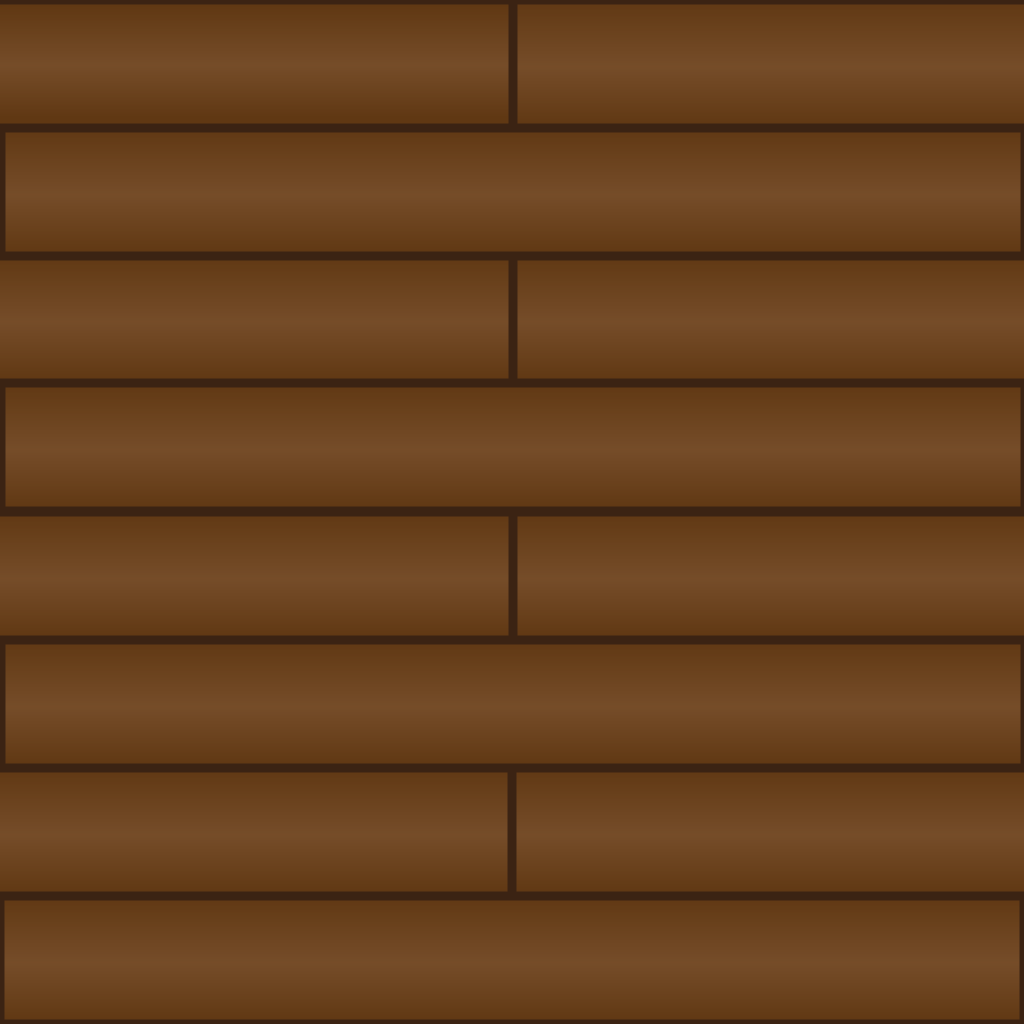
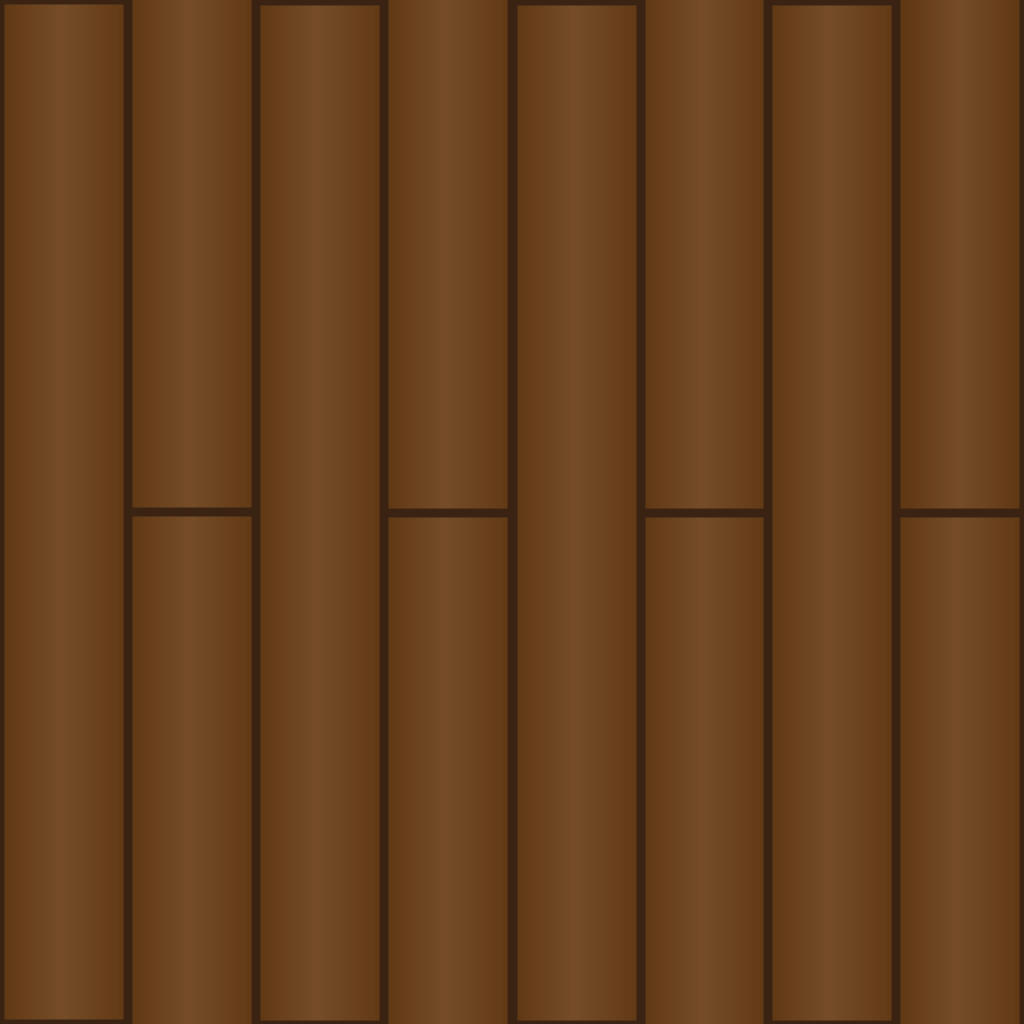
replaced ground plane with stage mesh and boundaries

Changed region(s): [[0.0, 0.0, 1.0, 1.0]]

diff --git a/vox/Source/vox/src/PuppetScene.cpp b/vox/Source/vox/src/PuppetScene.cpp
@@ -38,6 +38,7 @@
 #include "RaidTheCastle.h"
 #include <PuppetResourceManager.h>
 #include <NumberUtils.h>
+#include <Resource.h>
 
 PuppetScene::PuppetScene(PuppetGame * _game, float seconds):
 	LayeredScene(_game, 3),
@@ -50,7 +51,7 @@ PuppetScene::PuppetScene(PuppetGame * _game, float seconds):
 	cl(nullptr),
 	world(new Box2DWorld(b2Vec2(0.f, -98.0f))),
 	drawer(new Box2DDebugDraw(this, world)),
-	ground(new Box2DMeshEntity(world, MeshFactory::getPlaneMesh(), b2_staticBody, true)),
+	ground(new MeshEntity(Resource::loadMeshFromObj("../assets/hurly-burly/stage.obj"))),
 	background(new MeshEntity(MeshFactory::getPlaneMesh())),
 	shader(new BaseComponentShader()),
 	soundManager(new SoundManager()),
@@ -77,36 +78,77 @@ PuppetScene::PuppetScene(PuppetGame * _game, float seconds):
 	backgroundSoundManager->addNewSound("3", "../assets/hurly-burly/audio/songs/MelodicaSong.ogg");
 
 	background->setShader(shader, true);
-	background->transform->translate(0.0f, 50.f, -10.0f);
+	background->transform->translate(0.0f, 50.f, -15.f/2.f);
 	background->transform->scale(125 * 5, 50, 1);
 	background->mesh->pushTexture2D(PuppetResourceManager::sky);
 	background->mesh->uvEdgeMode = GL_REPEAT;
 	background->mesh->dirty = true;
 
 	ground->setShader(shader, true);
-	ground->setTranslationPhysical(0, 0, 0);
-	ground->transform->rotate(90.f, 1, 0, 0, kOBJECT);
-	ground->transform->rotate(90.f, 0, 0, 1, kOBJECT);
-	ground->transform->scale(25, 250, 1);
+	//ground->setTranslationPhysical(0, 0, 0);
+	//ground->transform->rotate(90.f, 1, 0, 0, kOBJECT);
+	//ground->transform->rotate(90.f, 0, 0, 1, kOBJECT);
+	ground->transform->scale(1000, 100, 100);
+	ground->transform->translate(50.f/2.f, 0, -15.f/2.f);
 	ground->mesh->uvEdgeMode = GL_REPEAT;
 	ground->mesh->pushTexture2D(PuppetResourceManager::stageFloor);
-	ground->body->SetTransform(b2Vec2(0, -250), 0);
-	ground->mesh->vertices.at(0).z -= 250;
+	for(Vertex & v : ground->mesh->vertices){
+		v.u *= 10;
+		v.v *= 100;
+	}
+	ground->mesh->dirty = true;
+	
+	boundaries.push_back(new Box2DMeshEntity(world, MeshFactory::getPlaneMesh(), b2_staticBody));
+	boundaries.push_back(new Box2DMeshEntity(world, MeshFactory::getPlaneMesh(), b2_staticBody));
+	boundaries.push_back(new Box2DMeshEntity(world, MeshFactory::getPlaneMesh(), b2_staticBody));
+	boundaries.push_back(new Box2DMeshEntity(world, MeshFactory::getPlaneMesh(), b2_staticBody));
+	
+	boundaries.at(0)->transform->scale(1, 50, 1);
+	boundaries.at(1)->transform->scale(1, 50, 1);
+	boundaries.at(2)->transform->scale(50, 1, 1);
+	boundaries.at(3)->transform->scale(50, 1, 1);
+
+	boundaries.at(0)->setTranslationPhysical(50, 0, 0);
+	boundaries.at(1)->setTranslationPhysical(-50, 0, 0);
+	boundaries.at(2)->setTranslationPhysical(0, 50, 0);
+	boundaries.at(3)->setTranslationPhysical(0, 0, 0);
+	
+	addChild(boundaries.at(0));
+	addChild(boundaries.at(1));
+	addChild(boundaries.at(2));
+	addChild(boundaries.at(3));
+	
+	world->addToWorld(boundaries.at(0));
+	world->addToWorld(boundaries.at(1));
+	world->addToWorld(boundaries.at(2));
+	world->addToWorld(boundaries.at(3));
+
+	b2Filter sf;
+	sf.categoryBits = PuppetGame::kBOUNDARY;
+	sf.maskBits = -1;
+	boundaries.at(0)->body->GetFixtureList()->SetFilterData(sf);
+	boundaries.at(1)->body->GetFixtureList()->SetFilterData(sf);
+	boundaries.at(2)->body->GetFixtureList()->SetFilterData(sf);
+	sf.categoryBits = PuppetGame::kBOUNDARY | PuppetGame::kGROUND;
+	boundaries.at(3)->body->GetFixtureList()->SetFilterData(sf);
+	boundaries.at(3)->body->GetFixtureList()->SetFriction(1);
+	boundaries.at(3)->body->GetFixtureList()->SetRestitution(0);
+
+	//ground->body->SetTransform(b2Vec2(0, -250), 0);
+	/*ground->mesh->vertices.at(0).z -= 250;
 	ground->mesh->vertices.at(1).z -= 250;
 	ground->mesh->vertices.at(2).z -= 250;
 	ground->mesh->vertices.at(3).z -= 250;
-	ground->mesh->dirty = true;
+	ground->mesh->dirty = true;*/
 
 	//Set UVs so the texture isn't stretched
-	ground->mesh->setUV(0, 0.0,  0.0);
+	/*ground->mesh->setUV(0, 0.0,  0.0);
 	ground->mesh->setUV(1, 0.0,  4.0);
 	ground->mesh->setUV(2, 40.0, 4.0);
-	ground->mesh->setUV(3, 40.0, 0.0);
+	ground->mesh->setUV(3, 40.0, 0.0);*/
 
-	world->addToWorld(ground, 2);
+	//world->addToWorld(ground, 2);
 	addChild(ground, 0);
-	ground->body->GetFixtureList()->SetFriction(1);
-	ground->body->GetFixtureList()->SetRestitution(0);
 
 	int timeOfDayOptions = 4;
 	int timeOfDay = std::rand()%timeOfDayOptions;
@@ -117,15 +159,12 @@ PuppetScene::PuppetScene(PuppetGame * _game, float seconds):
 
 	addChild(background, 0);
 
-	b2PolygonShape dynamicBox;
+	/*b2PolygonShape dynamicBox;
 	dynamicBox.SetAsBox(1.0f * std::abs(ground->transform->scaleVector.x), 1.0f * std::abs(ground->transform->scaleVector.y));	
 	b2Fixture * groundFixture = ground->getNewFixture(dynamicBox, 1.0f);
 	groundFixture->SetSensor(false);
 	groundFixture->SetUserData(this);
-	b2Filter sf;
-	sf.categoryBits = PuppetGame::kGROUND;
-	sf.maskBits = PuppetGame::kSTRUCTURE | PuppetGame::kITEM | PuppetGame::kPLAYER;
-	groundFixture->SetFilterData(sf);
+	*/
 
 	Texture * treeTex1 = PuppetResourceManager::tree1;
 	Texture * treeTex2 = PuppetResourceManager::tree2;
@@ -177,7 +216,7 @@ PuppetScene::PuppetScene(PuppetGame * _game, float seconds):
 	
 	world->b2world->SetDebugDraw(drawer);
 	//drawer->AppendFlags(b2Draw::e_aabbBit);
-	//drawer->AppendFlags(b2Draw::e_shapeBit);
+	drawer->AppendFlags(b2Draw::e_shapeBit);
 	drawer->AppendFlags(b2Draw::e_centerOfMassBit);
 	drawer->AppendFlags(b2Draw::e_jointBit);
 	//drawer->AppendFlags(b2Draw::e_pairBit);

diff --git a/vox/Source/vox/include/PuppetScene.h b/vox/Source/vox/include/PuppetScene.h
@@ -31,6 +31,7 @@ class Character3;
 class Character4;
 class PuppetGame;
 class Item;
+class NodeBox2DBody;
 
  class PuppetScene abstract : public LayeredScene{
 public:
@@ -53,10 +54,12 @@ public:
 	PuppetController * puppetController3;
 	PuppetController * puppetController4;
 
-	Box2DMeshEntity * ground;
+	MeshEntity * ground;
 	RandomGround * randomGround;
 	MeshEntity * background;
 	BaseComponentShader* shader;
+
+	std::vector<Box2DMeshEntity *> boundaries;
 
 	SoundManager * soundManager;
 	SoundManager * countdownSoundManager;
